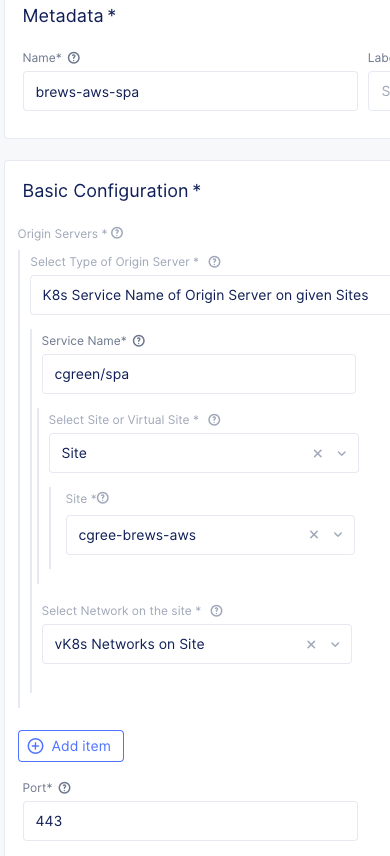
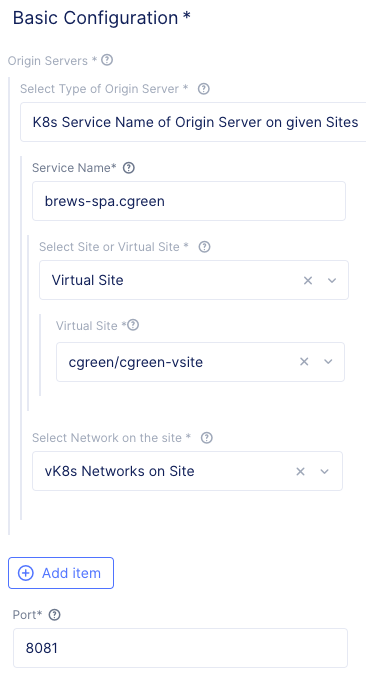
fix service; add troubleshooting

diff --git a/application/docs/state2/originPools.rst b/application/docs/state2/originPools.rst
@@ -1,0 +1,87 @@
+Origin Pools
+=========================
+
+In this section we will create the Origin Pools for the new vK8S deployment.
+
+
+Exercise 1: Create SAP Origin Pools
+~~~~~~~~~~~~~~~~~~~~~~~~~~~~~~~~~~~
+
+#. In VoltConsole ensure you are in the *Application* context
+
+    |app-context| 
+
+#. Navigate the menu to go to *Manage*->*Load Balancer*, then click *Origin Pools*
+
+    |origin_pools_menu|
+
+#. Click the *Add Origin Pool* button
+
+    |origin_pools_add|
+    
+#. Enter the following variables:
+
+    ==============================  =====
+    Variable                        Value
+    ==============================  =====
+    Name                            brews-aws-spa
+    Select Type of Origin Server    K8s Service Name of Origin Server on given Sites
+    Service Name                    brews-spa.your_namespace
+    Select Site or Virtual Site     Virtual Site
+    Site                            The virtual site you created earlier 
+    Select Network on site          vK8s Networks on Site
+    Port                            8081
+    ==============================  =====
+
+    |origin_pools_config|
+
+#. Under the *List of Health Check(s)* section, click the *Add item* button
+
+#. Select the brew-spa health check you created earlier
+
+#. Click the *Save and Exit* button
+
+
+Exercise 2: Create API Origin Pools
+~~~~~~~~~~~~~~~~~~~~~~~~~~~~~~~~~~~
+
+In this exercise, you will repeat the steps from exercise one but for the API vK8s service.
+
+The following variables will need to be changed:
+
+==================  =====
+Variable            Value
+==================  =====
+Origin Pool Name    brews-aws-api
+Service Name        brews-api.your_namespace
+Port                8000
+Health Check        brews-api
+==================  =====
+
+|origin_pools_config_api|
+
+Exercise 3: Troubleshoot Origin Pools
+~~~~~~~~~~~~~~~~~~~~~~~~~~~~~~~~~~~~~
+
+#. Click on the *...* link for the pool you would like to troubleshoot
+
+#. Click the *Show Child Objects* button
+
+    |origin_pools_show_child_objects|
+
+#. Click on the *Status* tab
+
+#. Select your AWS Site
+
+#. Validate that the JSON payload shows that *Validation* is *Sucessful* and *Operational* is *Installed*
+
+    |origin_pools_show_child_objects_status|
+
+
+.. |app-context| image:: ../_static/app-context.png
+.. |origin_pools_menu| image:: ../_static/origin_pools_menu.png
+.. |origin_pools_add| image:: ../_static/origin_pools_add.png
+.. |origin_pools_config| image:: ../_static/origin_pools_config.png
+.. |origin_pools_config_api| image:: ../_static/origin_pools_config_api.png
+.. |origin_pools_show_child_objects| image:: ../_static/origin_pools_show_child_objects.png
+.. |origin_pools_show_child_objects_status| image:: ../_static/origin_pools_show_child_objects_status.png

diff --git a/application/docs/state2/updateHttpLb.rst b/application/docs/state2/updateHttpLb.rst
@@ -4,69 +4,8 @@ Update HTTP Load Balancer
 In this section we will update the existing HTTP load balancer to include the new vK8S deployment.
 
 
-Exercise 1: Create SAP Origin Pools
-~~~~~~~~~~~~~~~~~~~~~~~~~~~~~~~~~~~
-
-#. In VoltConsole ensure you are in the *Application* context
-
-    |app-context| 
-
-#. Navigate the menu to go to *Manage*->*Load Balancer*, then click *Origin Pools*
-
-    |origin_pools_menu|
-
-#. Click the *Add Origin Pool* button
-
-    |origin_pools_add|
-    
-#. Enter the following variables:
-
-    ==============================  =====
-    Variable                        Value
-    ==============================  =====
-    Name                            brews-aws-spa
-    Select Type of Origin Server    K8s Service Name of Origin Server on given Sites
-    Service Name                    your_namespace/spa
-    Site                            your aws site 
-    Select Network on site          vK8s Networks on Site
-    Port                            8081
-    ==============================  =====
-
-    |origin_pools_config|
-
-#. Under the *List of Health Check(s)* section, click the *Add item* button
-
-#. Select the brew-spa health check you created earlier
-
-#. Click the *Save and Exit* button
-
-
-Exercise 2: Create API Origin Pools
-~~~~~~~~~~~~~~~~~~~~~~~~~~~~~~~~~~~
-
-In this exercise, you will repeat the steps from exercise one but for the API vK8s service.
-
-The following variables will need to be changed:
-
-==================  =====
-Variable            Value
-==================  =====
-Origin Pool Name    brews-aws-api
-Service Name        your_namespace/api
-Port                8000
-Health Check        brews-api
-==================  =====
-
-|origin_pools_config_api|
-
-Exercise 3: Add SPA Origin Pool to HTTP LB
+Exercise 1: Add SPA Origin Pool to HTTP LB
 ~~~~~~~~~~~~~~~~~~~~~~~~~~~~~~~~~~~~~~~~~~
 
-Exercise 4: Add API Origin Pool to HTTP LB
+Exercise 2: Add API Origin Pool to HTTP LB
 ~~~~~~~~~~~~~~~~~~~~~~~~~~~~~~~~~~~~~~~~~~
-
-.. |app-context| image:: ../_static/app-context.png
-.. |origin_pools_menu| image:: ../_static/origin_pools_menu.png
-.. |origin_pools_add| image:: ../_static/origin_pools_add.png
-.. |origin_pools_config| image:: ../_static/origin_pools_config.png
-.. |origin_pools_config_api| image:: ../_static/origin_pools_config_api.png

diff --git a/application/docs/state2/index.rst b/application/docs/state2/index.rst
@@ -41,6 +41,7 @@ host the SPA and API services while the on-prem site will solely host the databa
    containerRegistry
    vk8s
    tcpLb
+   originPools
    updateHttpLb
 
 .. |state2| image:: images/state2.png
